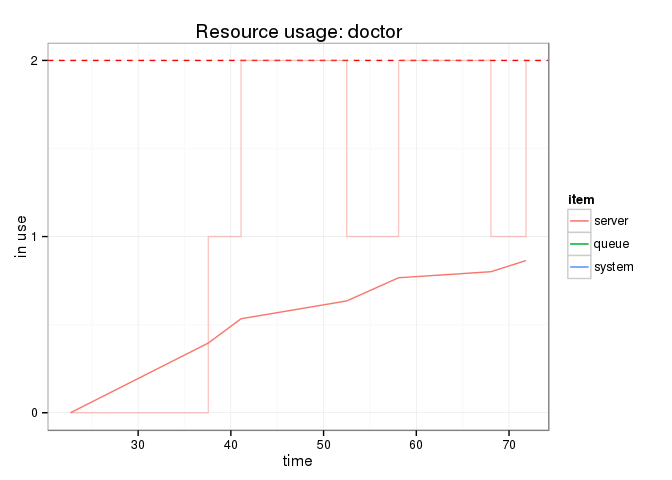
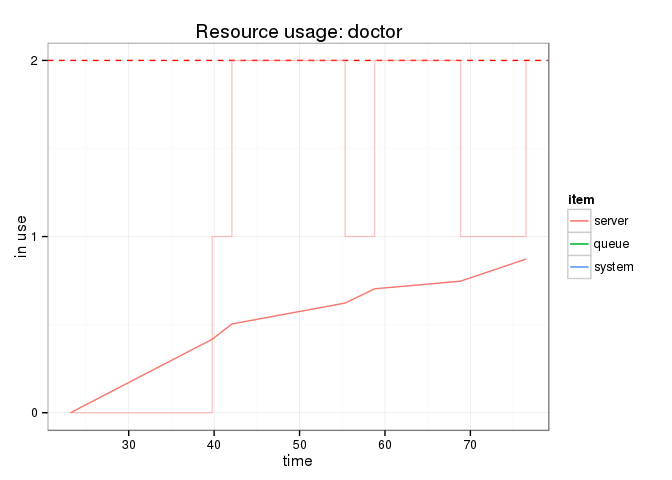
typos

diff --git a/README.html b/README.html
@@ -14,7 +14,7 @@
 <h2>Using <em>simmer</em></h2>
 <p>First, load the package.</p>
 <pre class="r"><code>library(simmer)</code></pre>
-<p>Set-up a simple trajectory. Let’s say we want to simulate a ambulatory consultation where a patient is first seen by a nurse for an intake, next by a doctor for the consultation and finally by administrative staff to schedule a follow-up appointment.</p>
+<p>Set-up a simple trajectory. Let’s say we want to simulate an ambulatory consultation where a patient is first seen by a nurse for an intake, next by a doctor for the consultation and finally by administrative staff to schedule a follow-up appointment.</p>
 <pre class="r"><code>t0 &lt;- Trajectory$new(&quot;my trajectory&quot;) $
   ## add an intake activity 
   seize(&quot;nurse&quot;, 1) $
@@ -28,27 +28,27 @@
   seize(&quot;administration&quot;, 1) $
   timeout(function() rnorm(1, 5)) $
   release(&quot;administration&quot;, 1)</code></pre>
-<p>The time-out duration is evaluated dynamically, so it must be a function. This means that if you want an static value instead of a probability, let’s say <code>3</code>, you need to enter <code>function() 3</code>.</p>
-<p>When the trajectory is known, the simulation environment can be built. In the example below, an environment is instantiated and three types of resources are added. The <em>nurse</em> and <em>administration</em> resources, each one with a capacity of 1, and the <em>doctor</em> resource, with a capacity of 2. The last method adds a generator of arrivals (patients) following the trajectory <code>t0</code>. The time between patients is about 10 minutes (a gaussian of <code>mean=10</code> and <code>sd=2</code>).</p>
+<p>The timeout duration is evaluated dynamically, so it must be a function. This means that if you want an static value instead of a probability, let’s say <code>3</code>, you need to enter <code>function() 3</code>.</p>
+<p>When the trajectory is known, the simulation environment can be built. In the example below, an environment is instantiated and three types of resources are added. The <em>nurse</em> and <em>administration</em> resources, each one with a capacity of 1, and the <em>doctor</em> resource, with a capacity of 2. The last method adds a generator of arrivals (patients) following the trajectory <code>t0</code>. The time between patients is about 10 minutes (a Gaussian of <code>mean=10</code> and <code>sd=2</code>).</p>
 <pre class="r"><code>simmer &lt;- Simmer$new(&quot;SuperDuperSim&quot;) $
   add_resource(&quot;nurse&quot;, 1) $
   add_resource(&quot;doctor&quot;, 2) $
   add_resource(&quot;administration&quot;, 1) $
   add_generator(&quot;patient&quot;, t0, function() rnorm(1, 10, 2))</code></pre>
-<p>The simulation is now ready for a test run; just let it <em>simmer</em> for a bit. Below, we specify that we want to limit the run-time to 80 time units using the <code>until</code> argument. After that, we verify the current simulation time (<code>now()</code>) and when will be the next event (<code>peek()</code>).</p>
+<p>The simulation is now ready for a test run; just let it <em>simmer</em> for a bit. Below, we specify that we want to limit the runtime to 80 time units using the <code>until</code> argument. After that, we verify the current simulation time (<code>now()</code>) and when will be the next event (<code>peek()</code>).</p>
 <pre class="r"><code>simmer$run(until=80)
 simmer$now()</code></pre>
-<pre><code>## [1] 81.96183</code></pre>
+<pre><code>## [1] 81.48769</code></pre>
 <pre class="r"><code>simmer$peek()</code></pre>
-<pre><code>## [1] 81.96183</code></pre>
+<pre><code>## [1] 81.48769</code></pre>
 <p>It is possible to run the simulation step by step, and such a method is chainable too.</p>
 <pre class="r"><code>simmer$step()
 simmer$step()$step()$step()
 simmer$now()</code></pre>
-<pre><code>## [1] 91.42328</code></pre>
+<pre><code>## [1] 83.3756</code></pre>
 <pre class="r"><code>simmer$peek()</code></pre>
-<pre><code>## [1] 91.42328</code></pre>
-<p>Also, it is possible to resume the automatic execution simply by specifying a longer run-time. Below, we continue the execution until 120 time units.</p>
+<pre><code>## [1] 83.3756</code></pre>
+<p>Also, it is possible to resume the automatic execution simply by specifying a longer runtime. Below, we continue the execution until 120 time units.</p>
 <pre class="r"><code>simmer$run(until=120)</code></pre>
 <p>Finally, you can reset the simulation, flush all results, resources and generators, and restart from the beginning.</p>
 <pre class="r"><code>simmer$reset()$run(until=80)</code></pre>
@@ -63,7 +63,7 @@ simmer$now()</code></pre>
     add_generator(&quot;patient&quot;, t0, function() rnorm(1, 10, 2)) $
     run(80)
 })</code></pre>
-<p>The advantage of the latter approach is that, if the individual simulations are heavy, it is straightforward to parallelize the execution of replicas (for instance, here we use the function <code>mclapply</code> from the package <a href="https://stat.ethz.ch/R-manual/R-devel/library/parallel/doc/parallel.pdf">parallel</a>). Nevertheless, the external pointers to the C++ <em>simmer</em> core are no longer valid when the parallelized execution ends. Thus, it is neccessary to extract the results at the end of each execution. This can be done with the helper class <code>Simmer.wrap</code> as follows.</p>
+<p>The advantage of the latter approach is that, if the individual simulations are heavy, it is straightforward to parallelize the execution of replicas (for instance, here we use the function <code>mclapply</code> from the package <a href="https://stat.ethz.ch/R-manual/R-devel/library/parallel/doc/parallel.pdf">parallel</a>). Nevertheless, the external pointers to the C++ <em>simmer</em> core are no longer valid when the parallelized execution ends. Thus, it is necessary to extract the results for each thread at the end of the execution. This can be done with the helper class <code>Simmer.wrap</code> as follows.</p>
 <pre class="r"><code>library(parallel)
 
 reps &lt;- mclapply(1:100, function(i) {
@@ -85,23 +85,24 @@ reps &lt;- mclapply(1:100, function(i) {
   reps[[1]]$get_mon_resources()
 )</code></pre>
 <pre><code>##       time server queue system resource
-## 1 11.52358      0     0      0    nurse
-## 2 24.04479      1     0      1    nurse
-## 3 27.20815      1     1      2    nurse
-## 4 36.14014      1     0      1    nurse
-## 5 43.00597      1     1      2    nurse
-## 6 46.70719      1     0      1    nurse</code></pre>
+## 1 11.79077      0     0      0    nurse
+## 2 21.99608      1     0      1    nurse
+## 3 28.00295      1     1      2    nurse
+## 4 32.59010      1     0      1    nurse
+## 5 43.05209      1     1      2    nurse
+## 6 44.02270      1     0      1    nurse</code></pre>
 <pre class="r"><code>head(
   reps[[1]]$get_mon_arrivals()
 )</code></pre>
 <pre><code>##       name start_time end_time activity_time finished
-## 1 patient0   11.52358 51.68784      40.16426     TRUE
-## 2 patient1   24.04479 68.76082      41.55267     TRUE</code></pre>
+## 1 patient0   11.79077 53.99191      42.20115     TRUE
+## 2 patient1   21.99608 68.56691      40.56397     TRUE
+## 3 patient2   32.59010 85.30166      42.24957     TRUE</code></pre>
 <p>Unfortunately, as the C++ simulation cores are destroyed, parallelization does not allow to resume the execution of replicas.</p>
 </div>
 <div id="advanced-trajectories" class="section level3">
 <h3>Advanced trajectories</h3>
-<p>The <code>branch()</code> method offers the possibility of adding a branch in the trajectory with some associated probability. The following example shows how a trajectory can be built with a 50-50 chance for the arrival to undergo the second time-out activity.</p>
+<p>The <code>branch()</code> method offers the possibility of adding a branch in the trajectory with some associated probability. The following example shows how a trajectory can be built with a 50-50 chance for the arrival to undergo the second timeout activity.</p>
 <pre class="r"><code>t1 &lt;- Trajectory$new(&quot;trajectory with a branch&quot;) $
   seize(&quot;server&quot;, 1) $
   branch(prob=0.5, merge=T, Trajectory$new(&quot;branch1&quot;) $
@@ -121,13 +122,13 @@ reps &lt;- mclapply(1:100, function(i) {
 <p>It is also possible to have a look at a specific resource and its activity during the simulation.</p>
 <pre class="r"><code>plot_resource_usage(reps, &quot;doctor&quot;, items=&quot;server&quot;, steps=T)</code></pre>
 <p><img src="README_files/figure-html/unnamed-chunk-14-1.png" /></p>
-<p>In the above graph, the individual lines are all seperate replications. The step lines are instantaneous utilization and the smooth line is a running average. Let’s take a look now at a specific replication. In the example below the 6th replication is shown.</p>
+<p>In the above graph, the individual lines are all separate replications. The step lines are instantaneous utilization and the smooth line is a running average. Let’s take a look now at a specific replication. In the example below the 6th replication is shown.</p>
 <pre class="r"><code>plot_resource_usage(reps[[6]], &quot;doctor&quot;, items=&quot;server&quot;, steps=T)</code></pre>
 <p><img src="README_files/figure-html/unnamed-chunk-15-1.png" /></p>
 </div>
 <div id="flow-time" class="section level3">
 <h3>Flow time</h3>
-<p>Next we can have a look at the evolution of the arrivals’ flow time during the simulation. In the below plot, each individual line represents a replication. A smoothline is drawn over them. All arrivals that didn’t finish their entire trajectory are excluded from the plot.</p>
+<p>Next we can have a look at the evolution of the arrivals’ flow time during the simulation. In the below plot, each individual line represents a replication. A smooth line is drawn over them. All arrivals that didn’t finish their entire trajectory are excluded from the plot.</p>
 <pre class="r"><code>plot_evolution_arrival_times(reps, type = &quot;flow_time&quot;)</code></pre>
 <p><img src="README_files/figure-html/unnamed-chunk-16-1.png" /></p>
 <p>Similarly one can have a look at the evolution of the activity times with <code>type = &quot;activity_time&quot;</code> and waiting times with <code>type = &quot;waiting_time&quot;</code>.</p>

diff --git a/README.md b/README.md
@@ -30,7 +30,7 @@ First, load the package.
 library(simmer)
 ```
 
-Set-up a simple trajectory. Let's say we want to simulate a ambulatory consultation where a patient is first seen by a nurse for an intake, next by a doctor for the consultation and finally by administrative staff to schedule a follow-up appointment.
+Set-up a simple trajectory. Let's say we want to simulate an ambulatory consultation where a patient is first seen by a nurse for an intake, next by a doctor for the consultation and finally by administrative staff to schedule a follow-up appointment.
 
 
 ```r
@@ -49,9 +49,9 @@ t0 <- Trajectory$new("my trajectory") $
   release("administration", 1)
 ```
 
-The time-out duration is evaluated dynamically, so it must be a function. This means that if you want an static value instead of a probability, let's say ```3```, you need to enter ```function() 3```.
+The timeout duration is evaluated dynamically, so it must be a function. This means that if you want an static value instead of a probability, let's say ```3```, you need to enter ```function() 3```.
 
-When the trajectory is known, the simulation environment can be built. In the example below, an environment is instantiated and three types of resources are added. The *nurse* and *administration* resources, each one with a capacity of 1, and the *doctor* resource, with a capacity of 2. The last method adds a generator of arrivals (patients) following the trajectory ```t0```. The time between patients is about 10 minutes (a gaussian of ```mean=10``` and ```sd=2```).
+When the trajectory is known, the simulation environment can be built. In the example below, an environment is instantiated and three types of resources are added. The *nurse* and *administration* resources, each one with a capacity of 1, and the *doctor* resource, with a capacity of 2. The last method adds a generator of arrivals (patients) following the trajectory ```t0```. The time between patients is about 10 minutes (a Gaussian of ```mean=10``` and ```sd=2```).
 
 
 ```r
@@ -62,7 +62,7 @@ simmer <- Simmer$new("SuperDuperSim") $
   add_generator("patient", t0, function() rnorm(1, 10, 2))
 ```
 
-The simulation is now ready for a test run; just let it *simmer* for a bit. Below, we specify that we want to limit the run-time to 80 time units using the ```until``` argument. After that, we verify the current simulation time (```now()```) and when will be the next event (```peek()```).
+The simulation is now ready for a test run; just let it *simmer* for a bit. Below, we specify that we want to limit the runtime to 80 time units using the ```until``` argument. After that, we verify the current simulation time (```now()```) and when will be the next event (```peek()```).
 
 
 ```r
@@ -71,7 +71,7 @@ simmer$now()
 ```
 
 ```
-## [1] 81.96183
+## [1] 81.48769
 ```
 
 ```r
@@ -79,7 +79,7 @@ simmer$peek()
 ```
 
 ```
-## [1] 81.96183
+## [1] 81.48769
 ```
 
 It is possible to run the simulation step by step, and such a method is chainable too.
@@ -92,7 +92,7 @@ simmer$now()
 ```
 
 ```
-## [1] 91.42328
+## [1] 83.3756
 ```
 
 ```r
@@ -100,10 +100,10 @@ simmer$peek()
 ```
 
 ```
-## [1] 91.42328
+## [1] 83.3756
 ```
 
-Also, it is possible to resume the automatic execution simply by specifying a longer run-time. Below, we continue the execution until 120 time units.
+Also, it is possible to resume the automatic execution simply by specifying a longer runtime. Below, we continue the execution until 120 time units.
 
 
 ```r
@@ -133,7 +133,7 @@ reps <- lapply(1:100, function(i) {
 })
 ```
 
-The advantage of the latter approach is that, if the individual simulations are heavy, it is straightforward to parallelize the execution of replicas (for instance, here we use the function ```mclapply``` from the package [parallel](https://stat.ethz.ch/R-manual/R-devel/library/parallel/doc/parallel.pdf)). Nevertheless, the external pointers to the C++ *simmer* core are no longer valid when the parallelized execution ends. Thus, it is neccessary to extract the results at the end of each execution. This can be done with the helper class ```Simmer.wrap``` as follows.
+The advantage of the latter approach is that, if the individual simulations are heavy, it is straightforward to parallelize the execution of replicas (for instance, here we use the function ```mclapply``` from the package [parallel](https://stat.ethz.ch/R-manual/R-devel/library/parallel/doc/parallel.pdf)). Nevertheless, the external pointers to the C++ *simmer* core are no longer valid when the parallelized execution ends. Thus, it is necessary to extract the results for each thread at the end of the execution. This can be done with the helper class ```Simmer.wrap``` as follows.
 
 
 ```r
@@ -178,12 +178,12 @@ head(
 
 ```
 ##       time server queue system resource
-## 1 11.52358      0     0      0    nurse
-## 2 24.04479      1     0      1    nurse
-## 3 27.20815      1     1      2    nurse
-## 4 36.14014      1     0      1    nurse
-## 5 43.00597      1     1      2    nurse
-## 6 46.70719      1     0      1    nurse
+## 1 11.79077      0     0      0    nurse
+## 2 21.99608      1     0      1    nurse
+## 3 28.00295      1     1      2    nurse
+## 4 32.59010      1     0      1    nurse
+## 5 43.05209      1     1      2    nurse
+## 6 44.02270      1     0      1    nurse
 ```
 
 ```r
@@ -194,15 +194,16 @@ head(
 
 ```
 ##       name start_time end_time activity_time finished
-## 1 patient0   11.52358 51.68784      40.16426     TRUE
-## 2 patient1   24.04479 68.76082      41.55267     TRUE
+## 1 patient0   11.79077 53.99191      42.20115     TRUE
+## 2 patient1   21.99608 68.56691      40.56397     TRUE
+## 3 patient2   32.59010 85.30166      42.24957     TRUE
 ```
 
 Unfortunately, as the C++ simulation cores are destroyed, parallelization does not allow to resume the execution of replicas.
 
 ### Advanced trajectories
 
-The ```branch()``` method offers the possibility of adding a branch in the trajectory with some associated probability. The following example shows how a trajectory can be built with a 50-50 chance for the arrival to undergo the second time-out activity.
+The ```branch()``` method offers the possibility of adding a branch in the trajectory with some associated probability. The following example shows how a trajectory can be built with a 50-50 chance for the arrival to undergo the second timeout activity.
 
 
 ```r
@@ -239,7 +240,7 @@ plot_resource_usage(reps, "doctor", items="server", steps=T)
 
 ![](README_files/figure-html/unnamed-chunk-14-1.png) 
 
-In the above graph, the individual lines are all seperate replications. The step lines are instantaneous utilization and the smooth line is a running average. Let's take a look now at a specific replication. In the example below the 6th replication is shown.
+In the above graph, the individual lines are all separate replications. The step lines are instantaneous utilization and the smooth line is a running average. Let's take a look now at a specific replication. In the example below the 6th replication is shown.
 
 
 ```r
@@ -250,7 +251,7 @@ plot_resource_usage(reps[[6]], "doctor", items="server", steps=T)
 
 ### Flow time
 
-Next we can have a look at the evolution of the arrivals' flow time during the simulation. In the below plot, each individual line represents a replication. A smoothline is drawn over them. All arrivals that didn't finish their entire trajectory are excluded from the plot.
+Next we can have a look at the evolution of the arrivals' flow time during the simulation. In the below plot, each individual line represents a replication. A smooth line is drawn over them. All arrivals that didn't finish their entire trajectory are excluded from the plot.
 
 
 ```r
